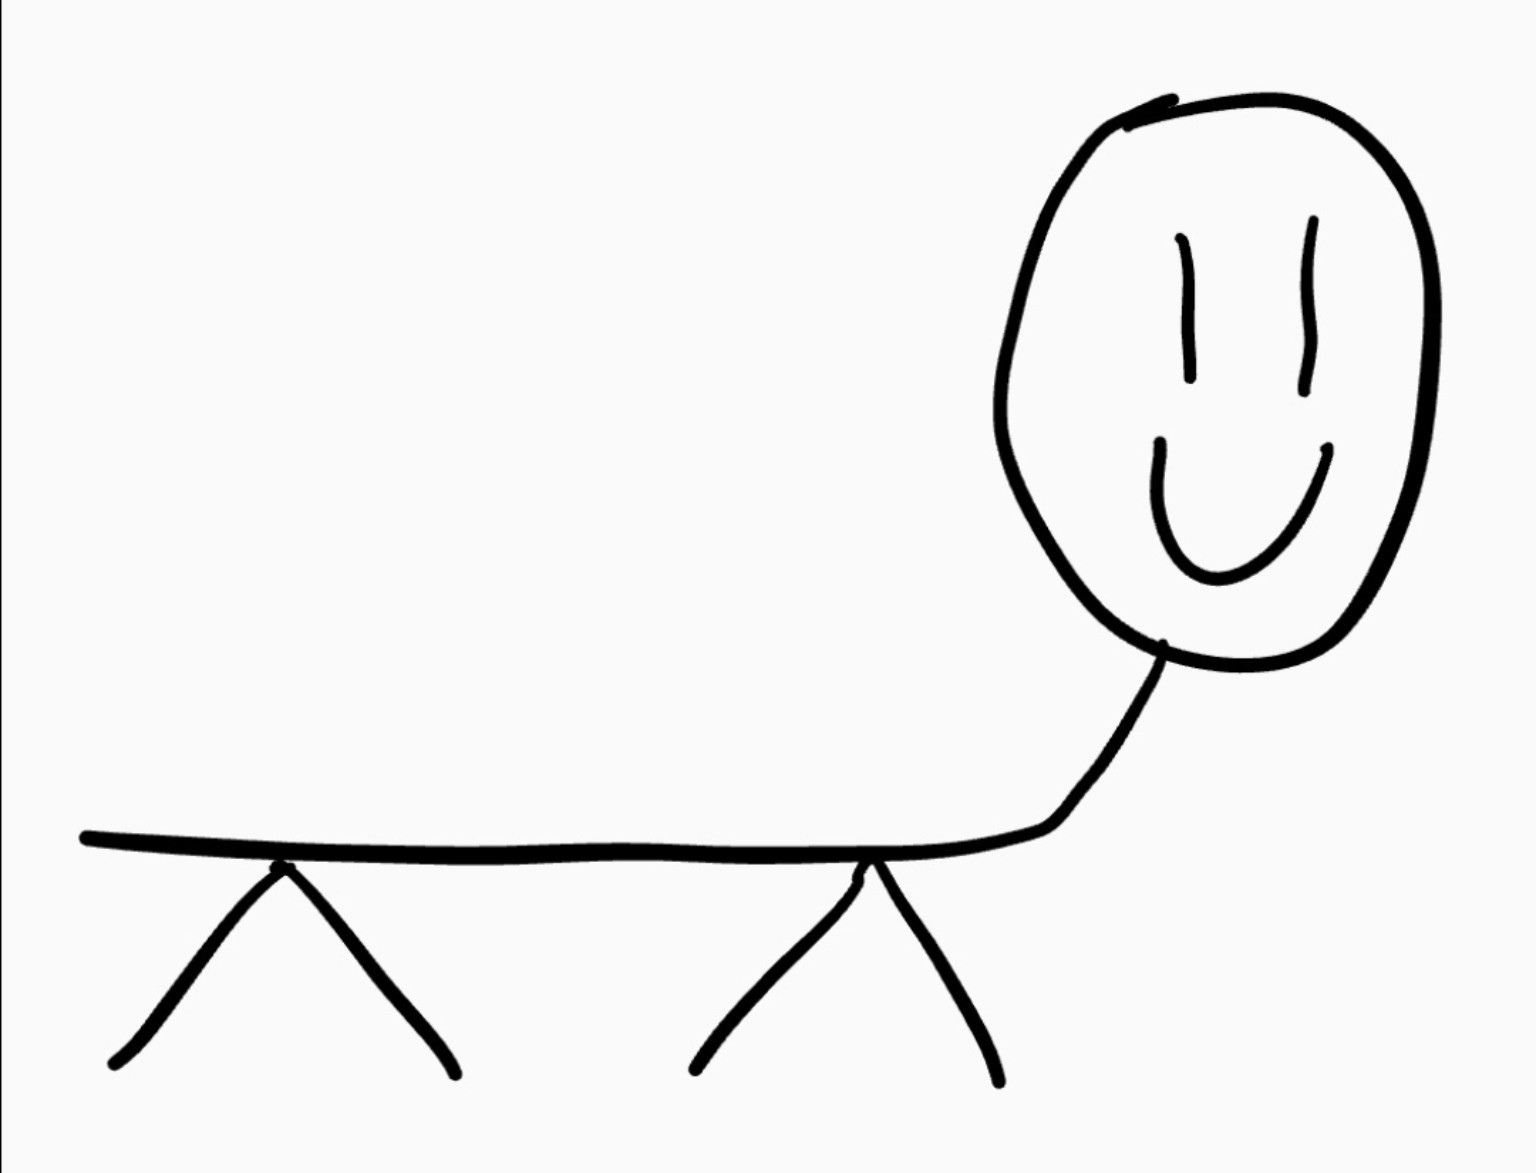
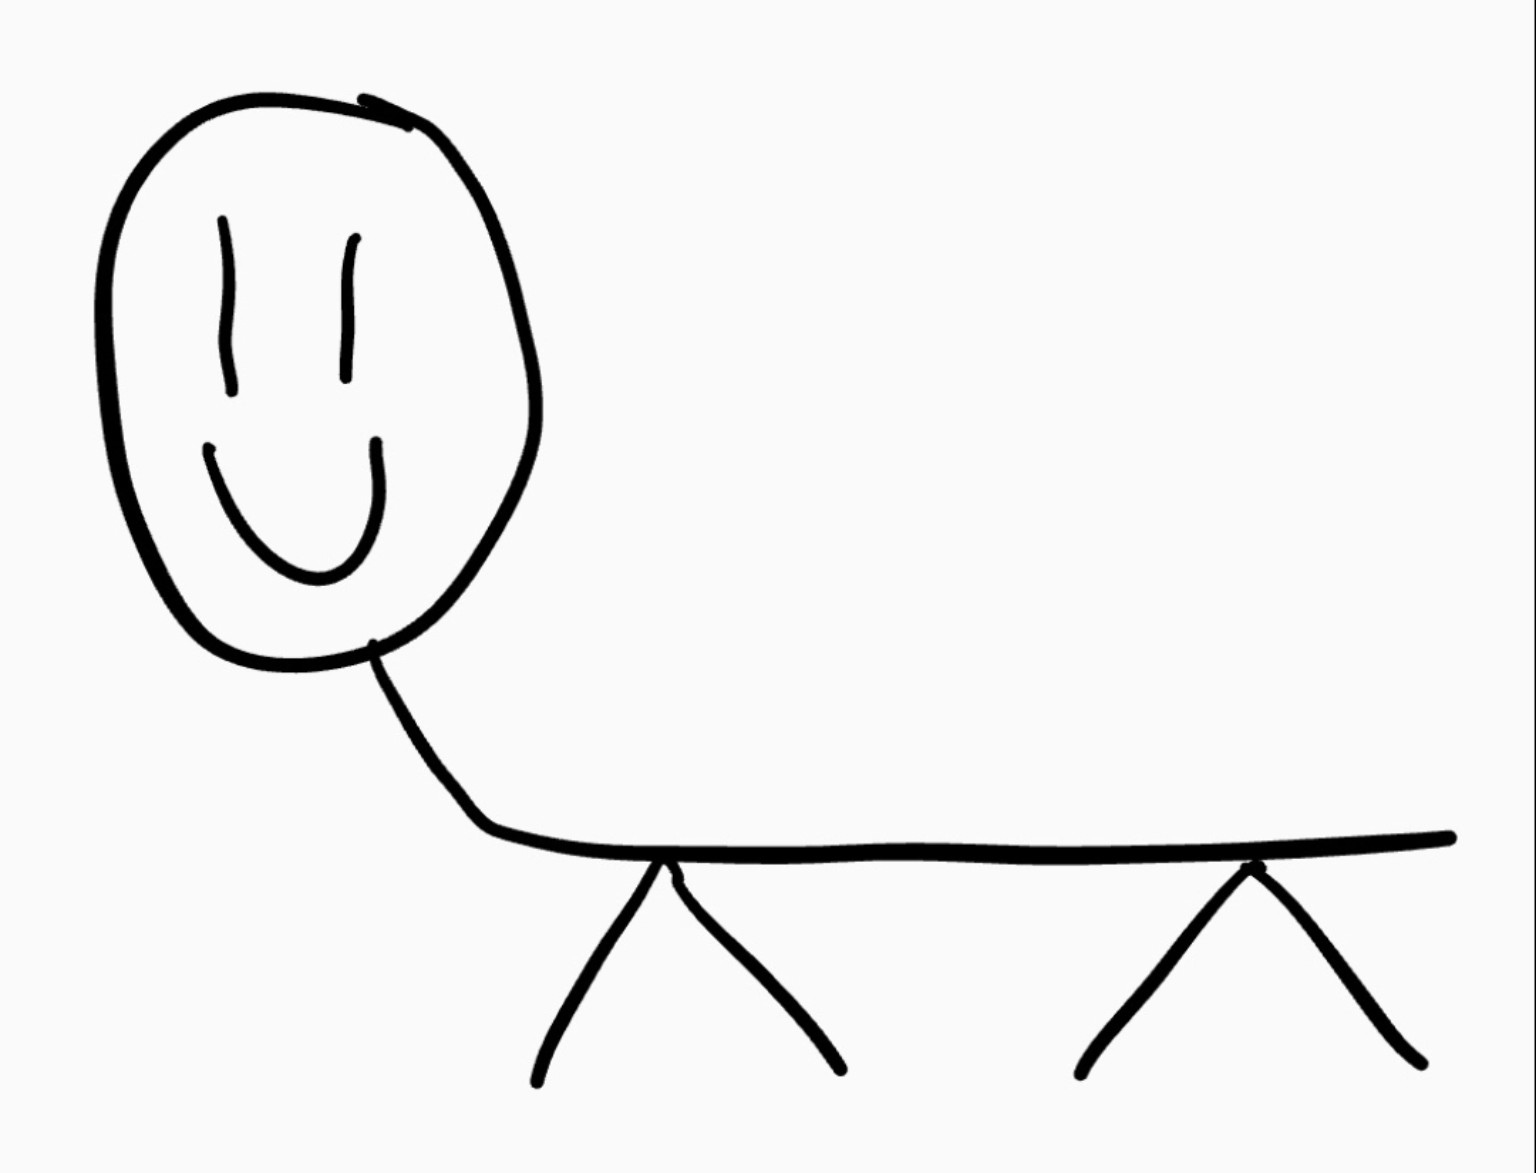
Flip Trusty to face left, and fix the spots that assumed he faced right
- images/trusty.png mirrored (Luke's change): his head is now on the left
- Home hero: the "say hi" note moves to the empty top-right corner with the
  arrow pointing back at his head; the bob now tips his head up
- The stray grey line in trusty.png is now on the right edge, so both edges
  are trimmed (CSS clip and the canvas sprite), whichever way he faces
- Flappy: he's mirrored back to face the way he flies, like the detailed
  horse form; inkSprite() gains flip and clearEdges options (replacing
  clearLeft). Hitbox and physics are unchanged

diff --git a/scripts/game-kit.js b/scripts/game-kit.js
@@ -43,24 +43,28 @@ function downscale(source, width, height) {
   return src;
 }
 
-// Converts a black-on-white drawing into a transparent sprite so it sits on any background.
-// `clearLeft` blanks that many source pixels on the left edge (trusty.png has a stray border line there).
-export function inkSprite(img, { width = img.naturalWidth, height = img.naturalHeight, color = '#1b1b1f', clearLeft = 0, threshold = 232 } = {}) {
+// Converts a black-on-white drawing into a transparent sprite so it sits on any background: the lighter a
+// pixel, the more see-through it becomes, and anything at or above `threshold` brightness vanishes.
+// `clearEdges` blanks that many source pixels at the left and right edges (trusty.png has a stray grey line
+// down one side), and `flip` mirrors the drawing.
+export function inkSprite(img, { width = img.naturalWidth, height = img.naturalHeight, color = '#1b1b1f', clearEdges = 0, flip = false, threshold = 232 } = {}) {
   const canvas = document.createElement('canvas');
   canvas.width = Math.max(1, Math.round(width));
   canvas.height = Math.max(1, Math.round(height));
   const ctx = canvas.getContext('2d', { willReadFrequently: true });
   ctx.imageSmoothingQuality = 'high';
+  if (flip) ctx.setTransform(-1, 0, 0, 1, canvas.width, 0);
   ctx.drawImage(downscale(img, canvas.width, canvas.height), 0, 0, canvas.width, canvas.height);
 
   const image = ctx.getImageData(0, 0, canvas.width, canvas.height);
   const px = image.data;
   const [r, g, b] = hexToRgb(color);
-  const cut = Math.ceil(clearLeft * canvas.width / img.naturalWidth);
+  const cut = Math.ceil(clearEdges * canvas.width / img.naturalWidth);
   for (let i = 0; i < px.length; i += 4) {
     const x = (i >> 2) % canvas.width;
     const lum = px[i] * 0.299 + px[i + 1] * 0.587 + px[i + 2] * 0.114;
-    const alpha = (lum >= threshold || x < cut) ? 0 : Math.min(1, (threshold - lum) / (threshold * 0.42));
+    const edge = x < cut || x >= canvas.width - cut;
+    const alpha = (lum >= threshold || edge) ? 0 : Math.min(1, (threshold - lum) / (threshold * 0.42));
     px[i] = r;
     px[i + 1] = g;
     px[i + 2] = b;

diff --git a/styles/stylesheet.css b/styles/stylesheet.css
@@ -375,7 +375,8 @@ p:last-child { margin-bottom: 0; }
 
 /* Line art drawn "on" the paper: its off-white (#fafafa) background is lifted to pure white, then multiplied away */
 .ink { mix-blend-mode: multiply; filter: brightness(1.03); }
-img[src$="/trusty.png"] { clip-path: inset(0 0 0 2%); }
+/* trusty.png has a thin grey line down one edge; trimming both edges hides it whichever way he faces */
+img[src$="/trusty.png"] { clip-path: inset(0 2%); }
 
 /* ---------- Buttons ---------- */
 .btn {
@@ -976,12 +977,13 @@ trusty-footer { display: block; }
 .hero-copy .lead { margin-bottom: 28px; }
 .hero-art { position: relative; margin: 0; }
 .hero-art img { width: 100%; max-width: 520px; margin-inline: auto; }
+/* Up in the empty corner above Trusty's back, pointing down at his head */
 .hero-art figcaption {
   position: absolute;
-  left: 2%;
+  right: 2%;
   top: 6%;
   color: var(--blue);
-  transform: rotate(-6deg);
+  transform: rotate(5deg);
   font-size: 1.6rem;
 }
 .hero-note {
@@ -996,10 +998,11 @@ trusty-footer { display: block; }
 }
 .hero-note p { font-size: .98rem; }
 
-.trusty-bob { animation: bob 3.2s ease-in-out infinite; transform-origin: 60% 90%; }
+/* A gentle bob that tips his head (on the left) up */
+.trusty-bob { animation: bob 3.2s ease-in-out infinite; transform-origin: 40% 90%; }
 @keyframes bob {
   0%, 100% { transform: translateY(0) rotate(0); }
-  50% { transform: translateY(-6px) rotate(-1.2deg); }
+  50% { transform: translateY(-6px) rotate(1.2deg); }
 }
 
 .feature {
@@ -1065,7 +1068,7 @@ trusty-footer { display: block; }
 @media (max-width: 900px) {
   .hero-sheet { grid-template-columns: 1fr; min-height: 0; }
   .hero-art { order: -1; max-width: 380px; margin-inline: auto; width: 100%; }
-  .hero-art figcaption { font-size: 1.35rem; left: -2%; top: 2%; }
+  .hero-art figcaption { font-size: 1.35rem; right: -2%; top: 2%; }
   .hero-note { position: relative; right: auto; top: auto; bottom: auto; width: auto; max-width: 440px; margin: 28px auto 0; }
   .feature { grid-template-columns: 1fr; }
   .teasers { grid-template-columns: 1fr; }

diff --git a/pages/games/flappy.html b/pages/games/flappy.html
@@ -258,7 +258,8 @@
             ]);
             const size = { width: HORSE_W * scale, height: HORSE_H * scale };
             sprites = {
-                classic: inkSprite(classic, { ...size, clearLeft: 4 }),
+                // trusty.png faces left; in the game he faces the way he flies, like the detailed horse.
+                classic: inkSprite(classic, { ...size, clearEdges: 4, flip: true }),
                 detailed: photoCard(detailed),
                 seahorse: inkSprite(seahorse, { ...size, color: '#ffffff' }),
                 topPencil: pencil(true),

diff --git a/index.html b/index.html
@@ -39,7 +39,7 @@
                 </div>
                 <figure class="hero-art">
                     <img class="ink trusty-bob" src="/images/trusty.png" alt="Trusty da Horse: a smiling stick-figure horse with a round head and a very long back" width="1536" height="1173" fetchpriority="high">
-                    <figcaption class="hand" aria-hidden="true">this is Trusty. say hi &#8600;</figcaption>
+                    <figcaption class="hand" aria-hidden="true">&#8601; this is Trusty. say hi</figcaption>
                 </figure>
             </div>
 
